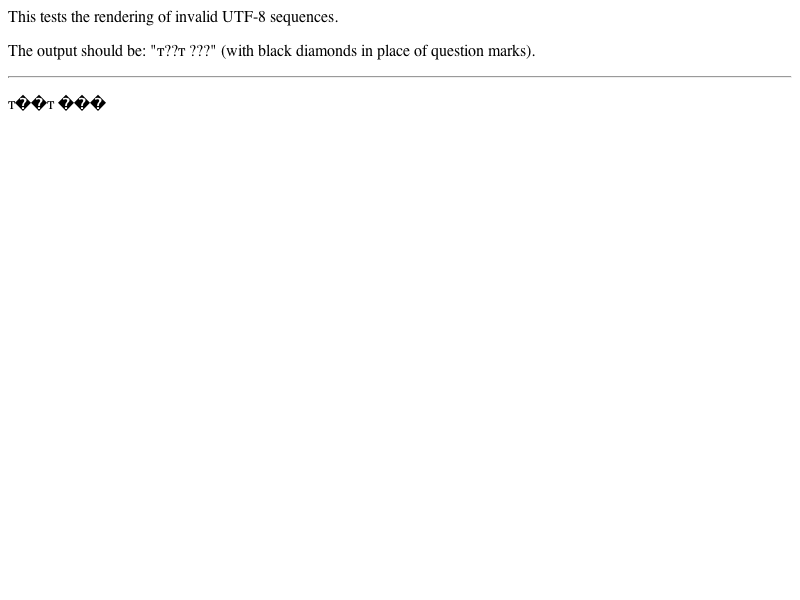
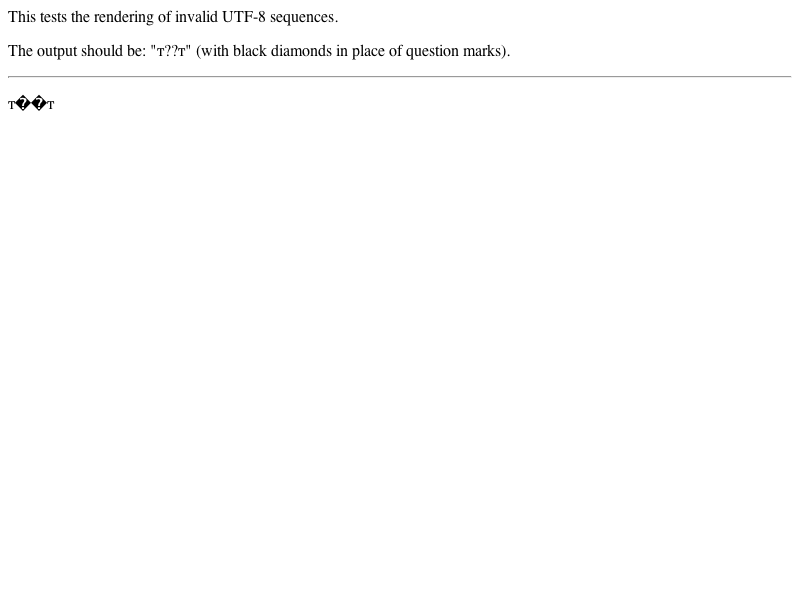
2010-02-22  Robert Hogan  <robert@roberthogan.net>
Reviewed by Alexey Proskuryakov.

        https://bugs.webkit.org/show_bug.cgi?id=32937
        LayoutTests/fast/encoding/invalid-UTF-8.html fails on Qt.

        The test was verifying two things: first, that U+FFFD is rendered by the browser, and second,
        that ill-formed UTF-8 sequences are turned into U+FFFD. Some aspects of the latter are not
        precisely defined by the Unicode specification, so different platforms may legitimately
        have different results.

        Split the test into two: one to test the rendering of invalid UTF-8 sequences, and the other
        to protect against regressions in each platform's decoding behaviour.

        * fast/encoding/invalid-UTF-8-2-expected.txt: Added.
        * fast/encoding/invalid-UTF-8-2.html: Added.
        * fast/encoding/invalid-UTF-8.html:
        * platform/mac/fast/encoding/invalid-UTF-8-expected.checksum:
        * platform/mac/fast/encoding/invalid-UTF-8-expected.png:
        * platform/mac/fast/encoding/invalid-UTF-8-expected.txt:
        * platform/qt/fast/encoding/invalid-UTF-8-2-expected.txt:

Identifier: 46405@main
git-svn-id: https://svn.webkit.org/repository/webkit/trunk@55103 268f45cc-cd09-0410-ab3c-d52691b4dbfc

Changed region(s): [[0.2188, 0.06, 0.6562, 0.12], [0.0625, 0.15, 0.125, 0.18]]

diff --git a/LayoutTests/fast/encoding/invalid-UTF-8-2.html b/LayoutTests/fast/encoding/invalid-UTF-8-2.html
@@ -11,9 +11,13 @@
 </style>
 </head>
 <body>
-<p>This tests the rendering of invalid UTF-8 sequences.</p>
-<p>The output should be: "т??т" (with black diamonds in place of question marks).</p>
-<hr>
-<p>т��т</p>
+<script>
+    if (window.layoutTestController)
+        layoutTestController.dumpAsText();
+</script>
+<p>This tests the decoding of invalid UTF-8 sequences.</p>
+The following should be: "т��т ���" or "т��т ��������":
+<p>т��т ���</p>
 </body>
 </html>
+
